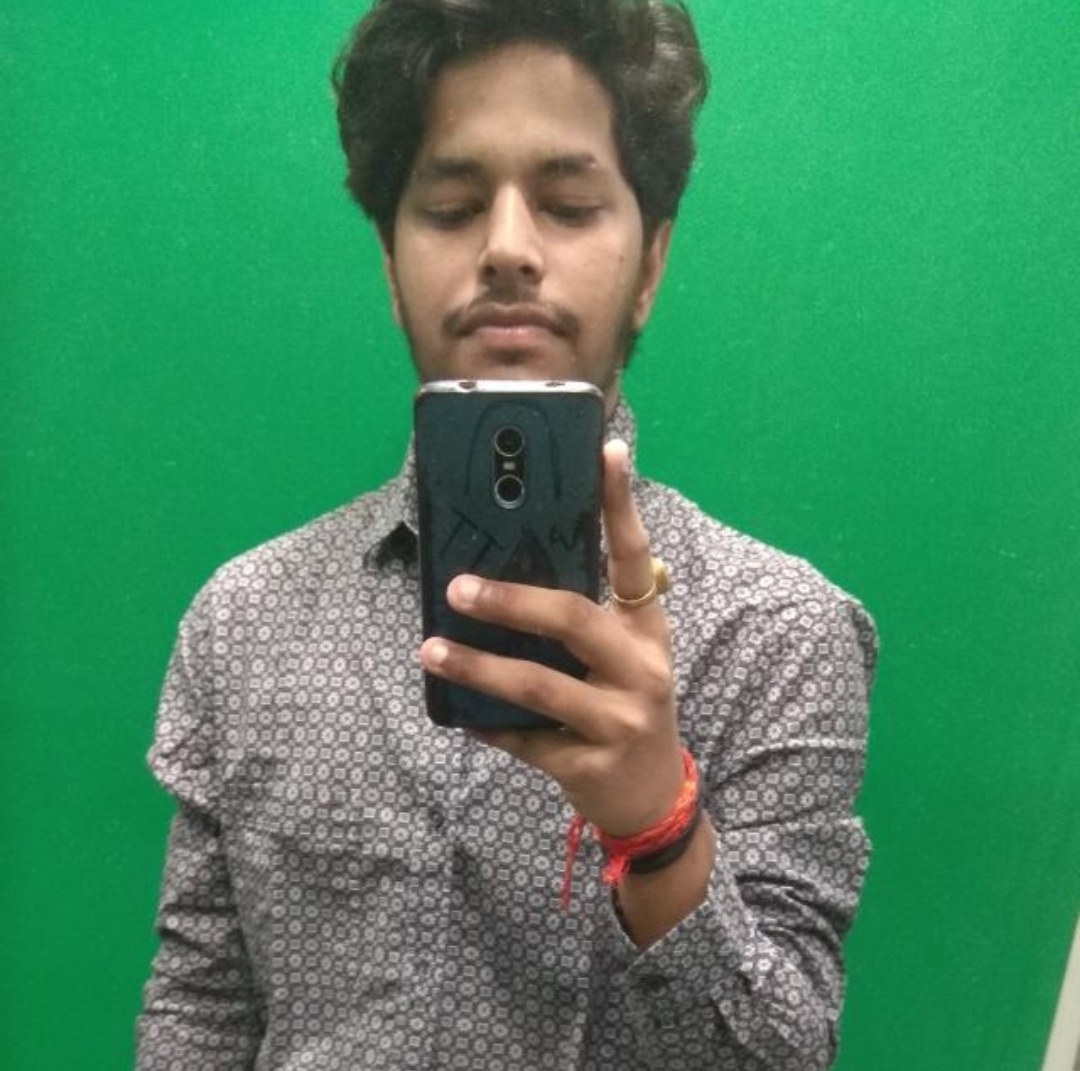
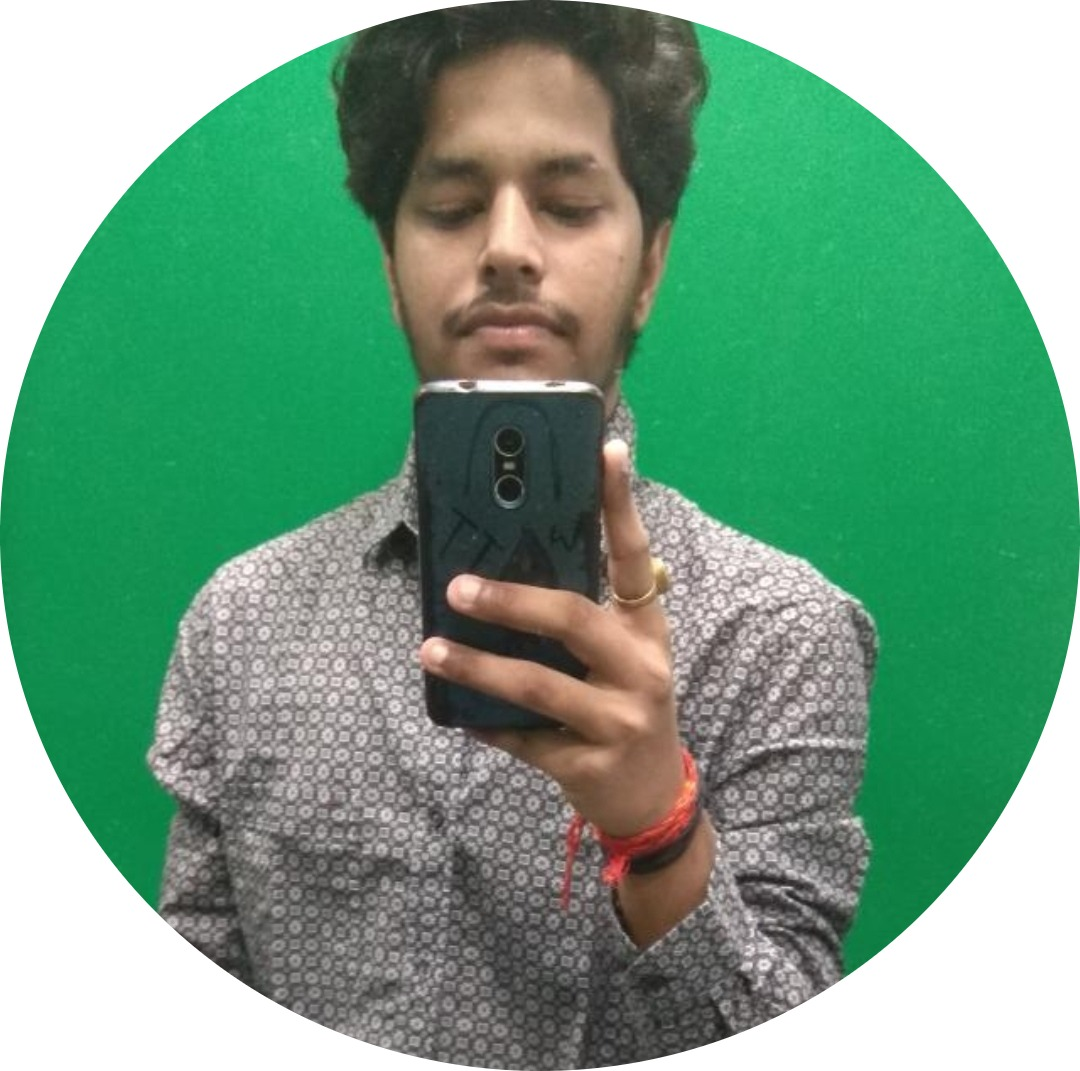
Updated README.md file

diff --git a/public/css/styles.css b/public/css/styles.css
@@ -25,6 +25,12 @@
     background-color: pink;
 }
 
+/* Header Selectors */
+
+.navbar-brand {
+    padding: 0 2% !important;
+}
+
 /* Element Selectors */
 
 body {
@@ -62,6 +68,10 @@ body {
 
 .brand-border {
     border-bottom: 3px inset #000;
+}
+
+.footer-brand-border {
+    border-bottom: 3px inset #00a650;
 }
 
 .align-center {
@@ -125,7 +135,7 @@ body {
         padding: 0;
     }
 
-    .display-3 {
+    #about .display-3 {
         font-size: 1rem !important;
         width: 60%;
         display: block;
@@ -189,7 +199,7 @@ body {
 
 .features-para {
     font-family: "Roboto", sans-serif;
-    width: 70%;
+    width: 90%;
     color: rgba(0, 0, 0, 0.4);
     font-size: 1.5rem;
     line-height: 1.5;
@@ -199,7 +209,9 @@ body {
 
 hr {
     width: 30%;
-    height: 10px;
+    display: block;
+    margin: auto;
+    height: 20px;
     background: #00a650;
 }
 
@@ -212,7 +224,7 @@ hr {
 
     .features-para {
         font-size: 0.6rem !important;
-        padding-bottom: 0;
+        padding-bottom: 2rem !important;
         width: 100%;
     }
 
@@ -222,6 +234,10 @@ hr {
 
     .feature-logo {
         font-size: 2.5rem;
+    }
+
+    hr {
+        display: none;
     }
 
     .about-item {
@@ -264,13 +280,73 @@ hr {
     color: rgba(255, 255, 255, 0.7);
 }
 
-.carousel-div img {
-    border-radius: 50%;
-    width: 300px;
-    height: 300px;
+.carousel-item img {
+    width: auto;
+    border-radius: 100%;
+    max-width: 300px;
+    display: block;
+    margin-right: auto;
+    margin-left: auto;
+    border: 3px solid #00a650;
+}
+
+#testimonials .display-2 {
+    font-size: 3.5rem;
+    text-align: center;
+    color: #00a650;
+}
+
+.carousel-item h3 {
+    color: #00a650;
+    padding: 1rem;
+}
+
+.carousel-item p {
+    color: rgba(255, 255, 255, 0.5);
+    width: 60%;
+    text-align: center;
     display: block;
     margin: auto;
-    padding-bottom: 5%;
+}
+
+.carousel-control-next-icon, .carousel-control-prev-icon {
+    margin-top: 40rem;
+}
+
+@media (max-width: 992px) {
+    .carousel-item img {
+        max-width: 200px;
+    }
+
+    #testimonials .display-3 {
+        font-size: 1.4rem !important;
+        width: 100%;
+    }
+
+    #testimonials .para-size {
+        width: 80%;
+        text-align: center;
+        font-size: 0.6rem !important;
+        margin-bottom: 3rem;
+    }
+
+    #testimonials .display-2 {
+        text-align: center;
+        color: #00a650;
+        margin-bottom: 3% !important;
+    }
+
+    .carousel-control-next-icon, .carousel-control-prev-icon {
+        margin-top: 27rem;
+    }
+
+    .carousel-control-prev-icon {
+        margin-right: 2rem;
+    }
+
+    .carousel-control-next-icon {
+        margin-left: 2rem;
+    }
 }
 
 .feature-logo {
@@ -329,6 +405,16 @@ hr {
     padding-bottom: 3%;
 }
 
+/* Footer Subscribe */
+
+.footer-subscribe .subscribe-form {
+    padding-left: 10%;
+    position: relative;
+    width: 100%;
+}
+
+/* For Mobiles */
+
 @media (max-width: 992px) {
     #footer .container .display-2 {
         text-align: center;
@@ -352,18 +438,19 @@ hr {
 
     #user-email {
         padding: 5% !important;
-        height: 4rem !important;
+        height: 2rem !important;
     }
 
     #user-submit {
         padding: 0 !important;
         margin-bottom: 2% !important;
-        letter-spacing: 0;
-        height: 4rem !important;
+        height: 2rem !important;
+        line-height: 0.9rem !important;
     }
 
     #user-form input[type="submit"] {
         font-size: 10px !important;
+        letter-spacing: 2px !important;
         width: 20% !important;
     }
 
@@ -379,14 +466,12 @@ hr {
     .para-href {
         font-size: 1.2rem !important;
     }
-}
 
-/* Footer Subscribe */
-
-.footer-subscribe .subscribe-form {
-    padding-left: 10%;
-    position: relative;
-    width: 100%;
+    .footer-subscribe .subscribe-form {
+        padding: 0 !important;
+        position: relative;
+        width: 100%;
+    }
 }
   
 .footer-subscribe #user-form {

diff --git a/README.md b/README.md
@@ -1,3 +1,3 @@
 # toDoListWebsite
 
-This file is for toDoList website.
+This repository is created for is toDoList website which are going to be presented as Major Project of the degree.
